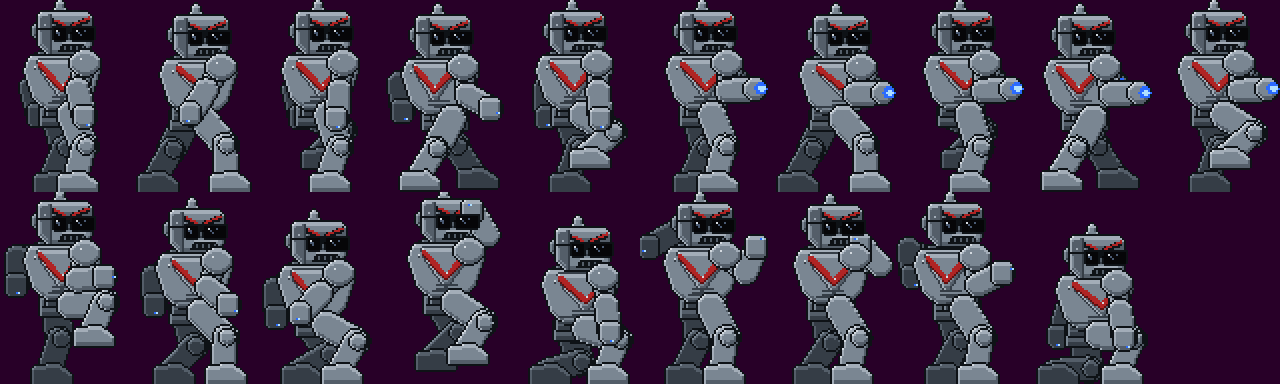
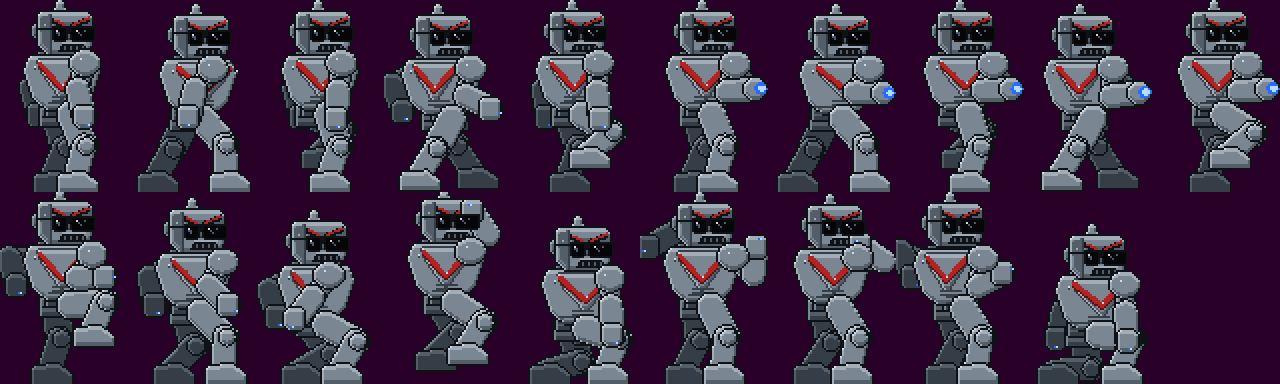
v0.1.3 art: shoulders roll with the arm swing
Each shoulder moves back when its arm swings back and forward when it swings
forward, so the arms read as swinging from the body.

diff --git a/tools/make_art.py b/tools/make_art.py
@@ -461,7 +461,11 @@ def robot_frame(pose):
     cv = Canvas(64, 96)
     hipy = 57 + dy
     fhip, bhip = (35 + ln * 0.5, hipy), (27 + ln * 0.5, hipy)
-    fsh, bsh = (42 + ln, 32 + dy), (21 + ln, 32 + dy)
+    # shoulders follow their arm: they roll back when the arm swings back, forward when it swings forward
+    roll = lambda hx, rest: max(-5, min(4, (hx - rest) * 0.35))
+    fr, br = roll(fh[0], 42), roll(bh[0], 19)
+    fsh = (42 + ln + fr, 32 + dy + abs(fr) * 0.2)
+    bsh = (21 + ln + br, 32 + dy + abs(br) * 0.2)
     r_leg(cv, bhip, bf, BACK)
     r_arm(cv, bsh, bh, BACK, palm)
     r_torso(cv, ln, dy)
